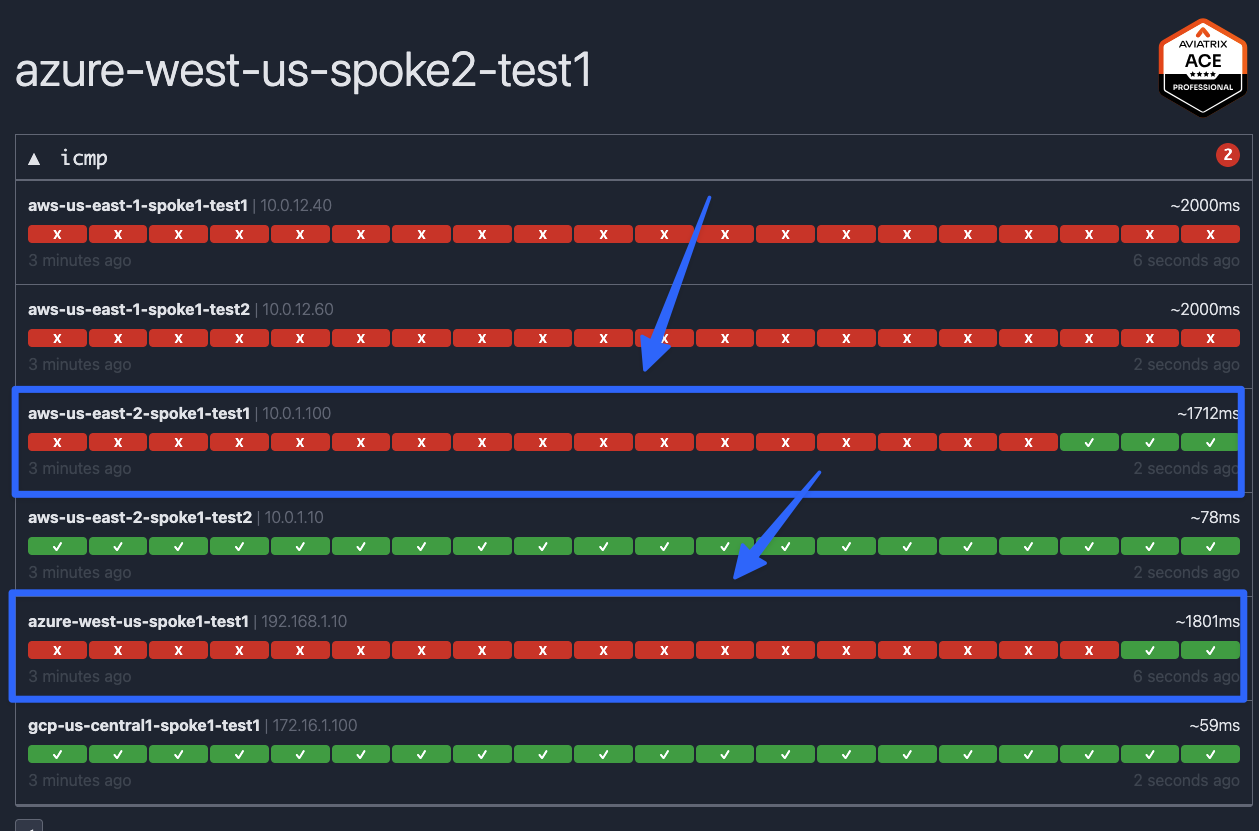
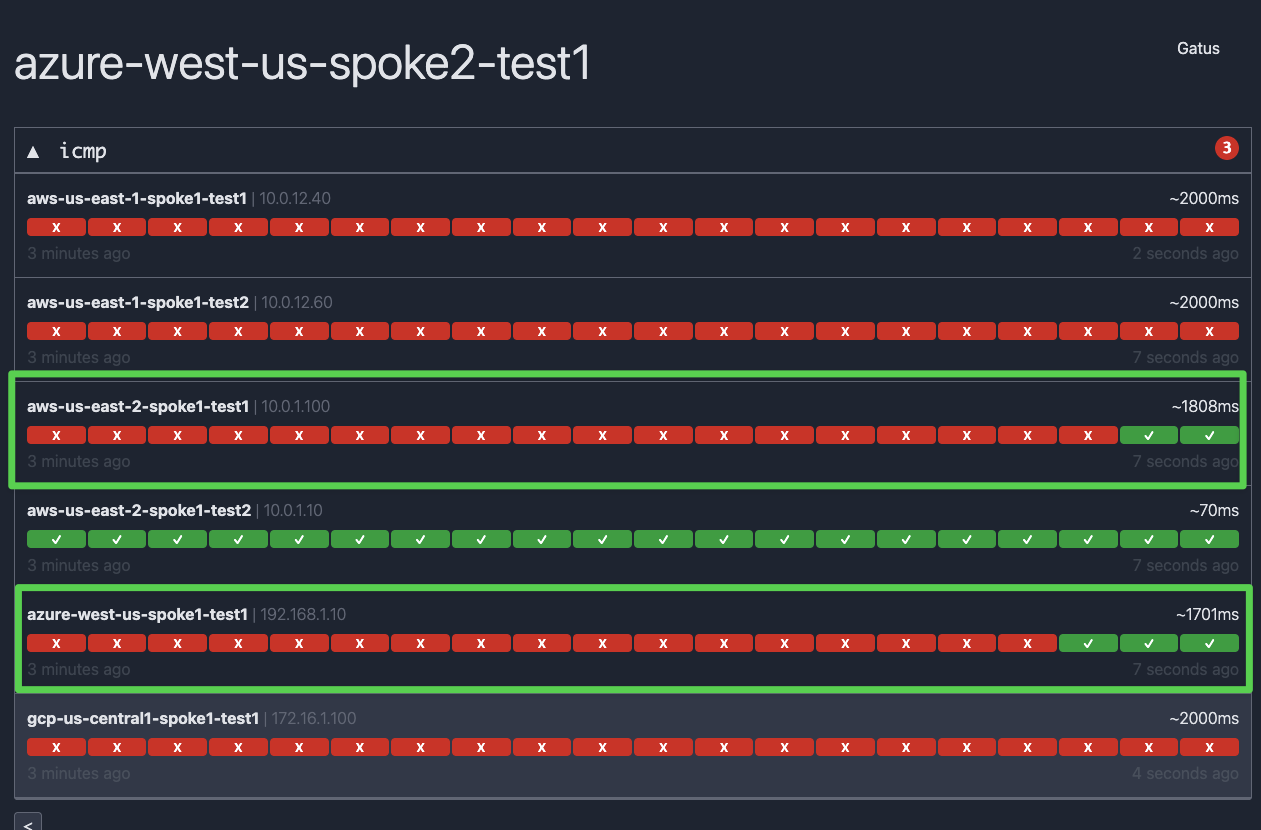
update for pro

Changed region(s): [[0.0, 0.0, 1.0, 1.0], [0.0, 0.0602, 0.4647, 0.1205]]

diff --git a/ace_pro/docs/lab11.md b/ace_pro/docs/lab11.md
@@ -783,6 +783,13 @@ Create Rule
 
 Enforce this new rule into the Data Plane clicking on the `"Commit"` button.
 
+```{figure} images/lab10-newrule4commit.png
+---
+align: center
+---
+Commit
+```
+
 ### 9.1 Verify ICMP traffic from bu2 to bu1 Using the Gatus App
 
 Open the Gatus App on **_azure-west-us-spoke2-test1_** and verify the ICMP Traffic.
@@ -794,7 +801,7 @@ align: center
 Gatus
 ```
 
-All pings will be successful except those to the **aws EAST-1** region, as the lack of a **full-mesh** topology impacts connectivity.
+All pings will succeed except those to the **AWS US-EAST-1** region, where connectivity is affected by the lack of a `full-mesh` topology, and to **_gcp-us-central1-spoke1-test1_**, which resides in a different Routing Domain.
 
 ### 9.2 Verify ICMP traffic from bu2 to bu1 Using SSH Client<span style='color:#33ECFF'>(BONUS)</span></summary>
 
